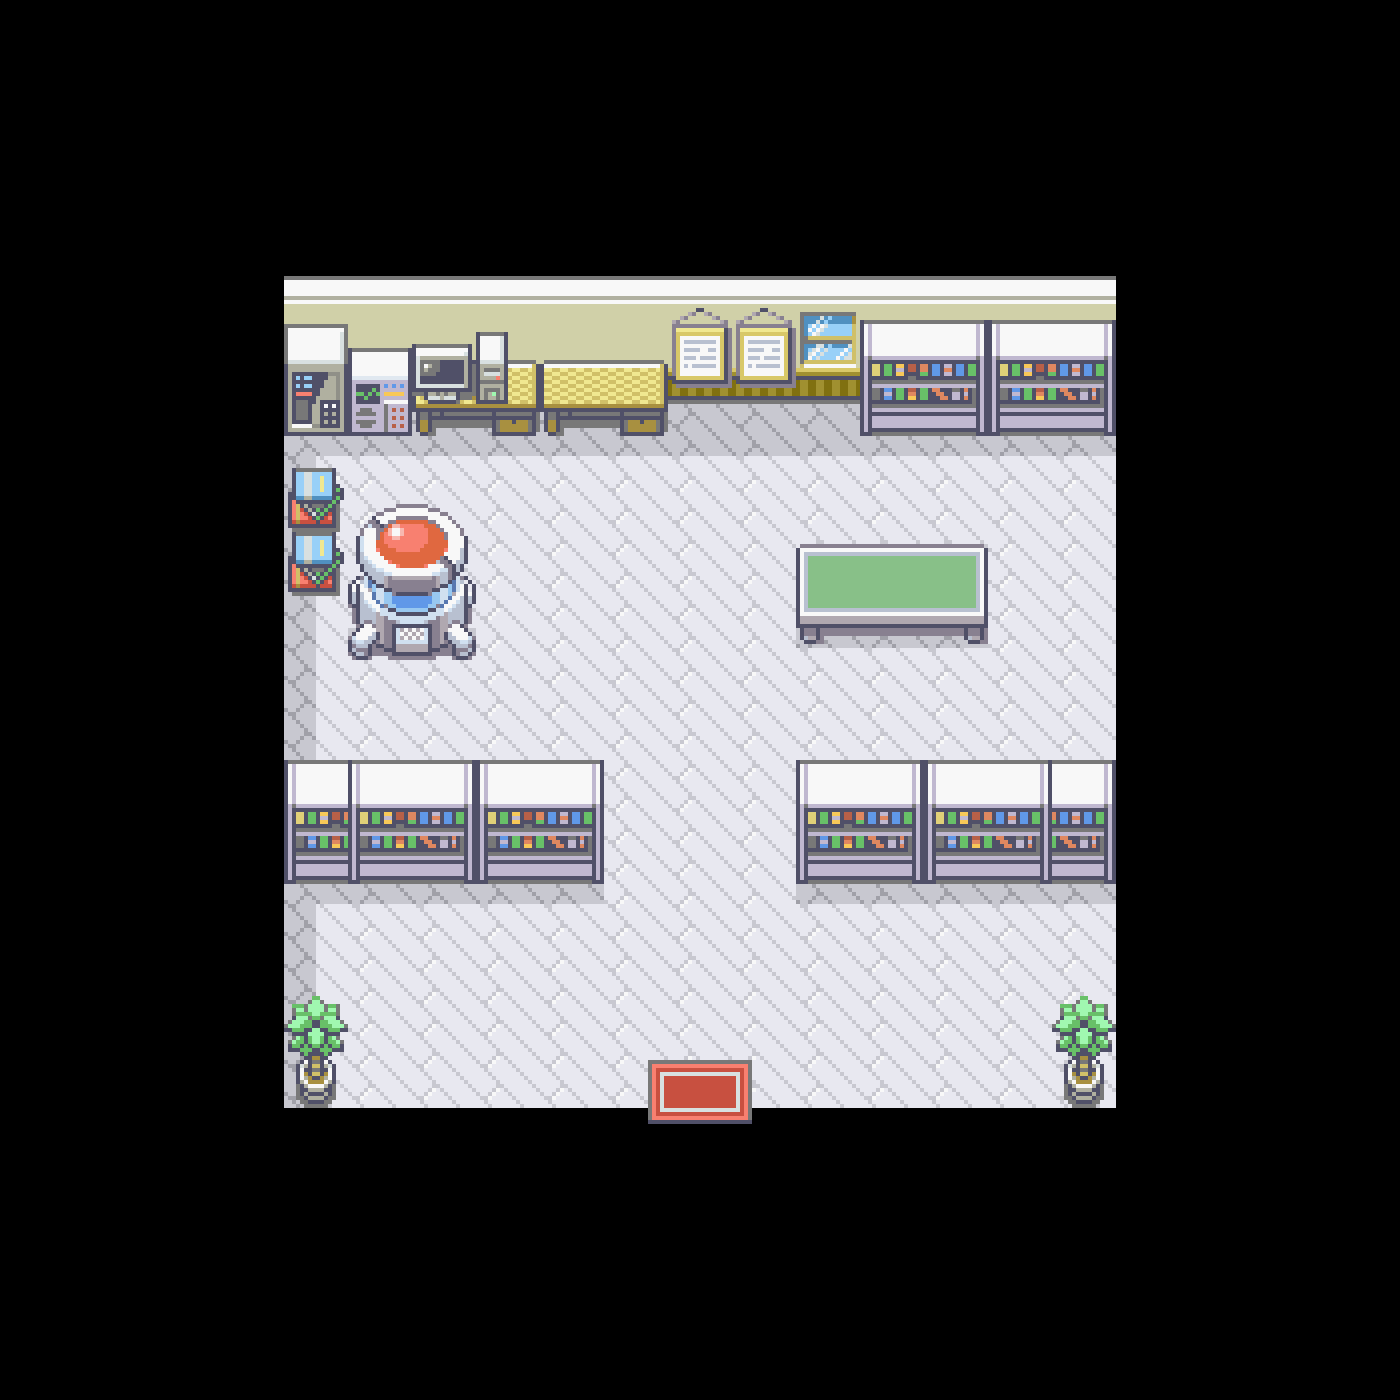
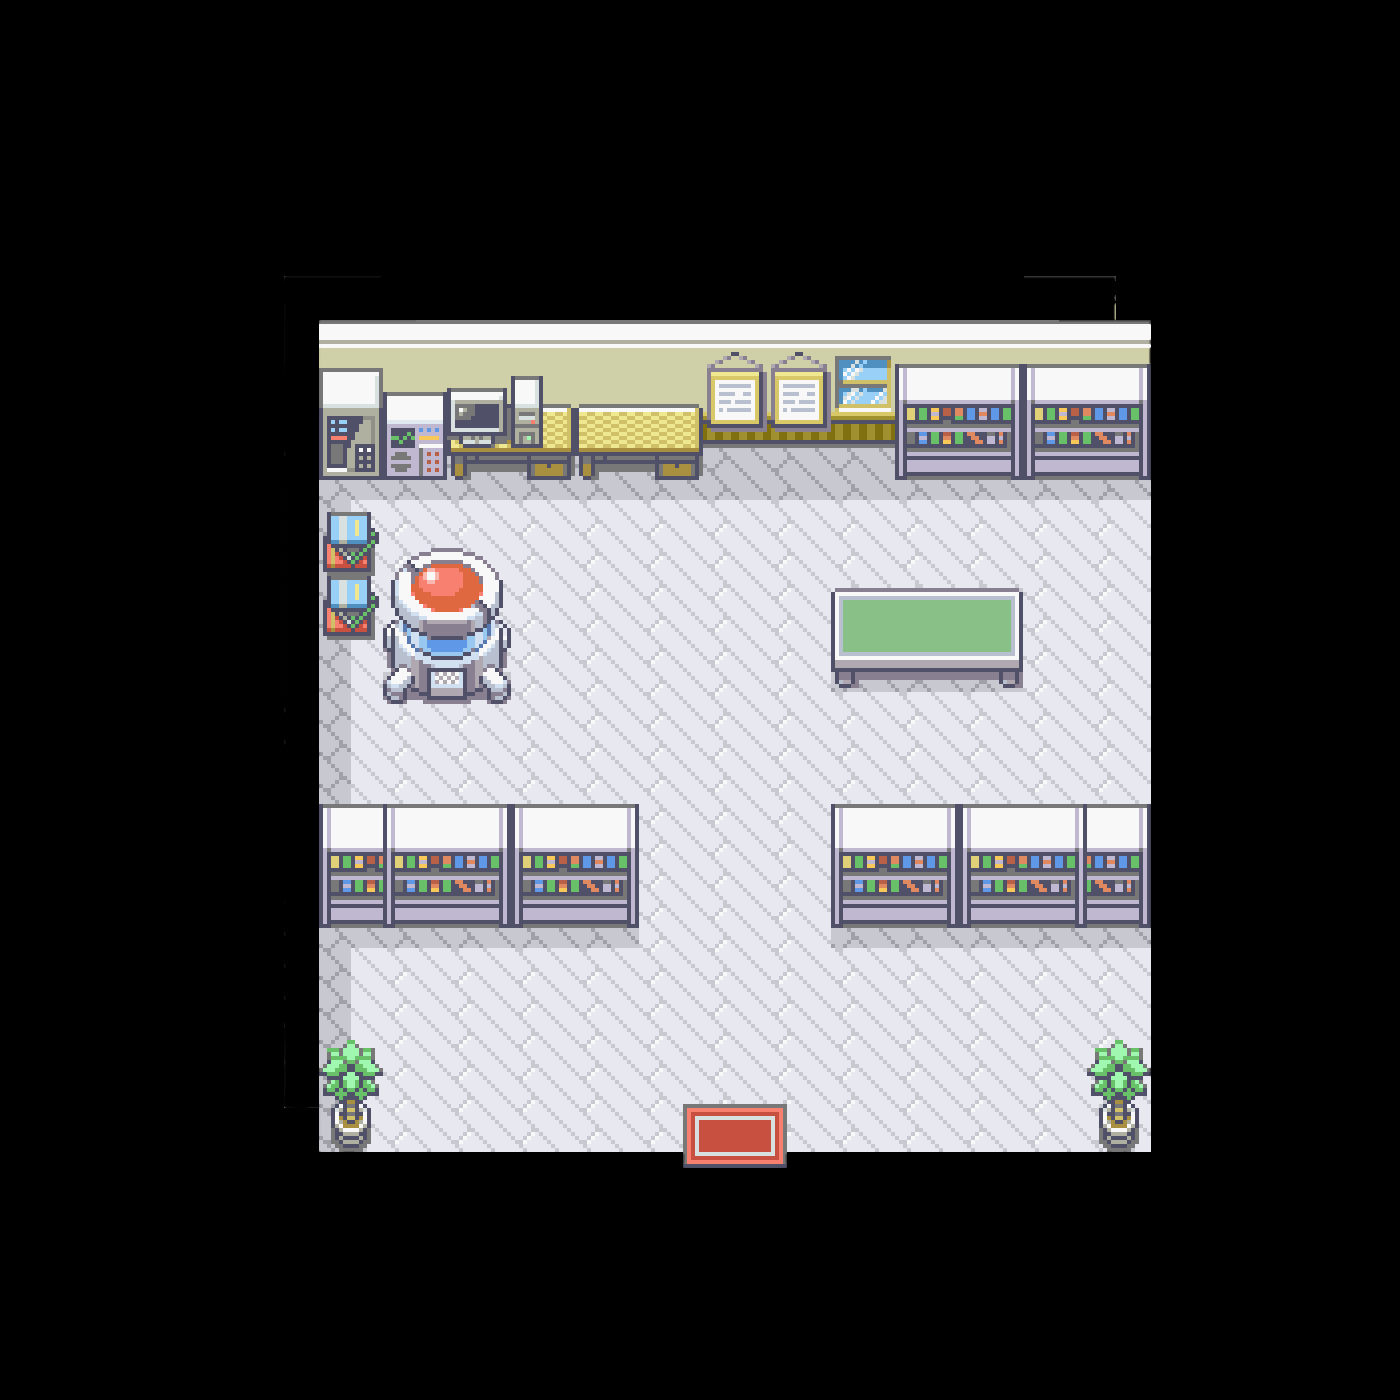
fix: CTile 크기 수정
타일의 크기를 기존 32에서 64로 크기를 키웠다

Changed region(s): [[0.1843, 0.1843, 0.8293, 0.86]]

diff --git a/WinAPI/CTile.h b/WinAPI/CTile.h
@@ -12,7 +12,7 @@ public:
 	virtual ~CTile();
 
 public:
-	const static int TILESIZE = 32;
+	const static int TILESIZE = 64;
 
 protected:
 	TypeTile m_type;
